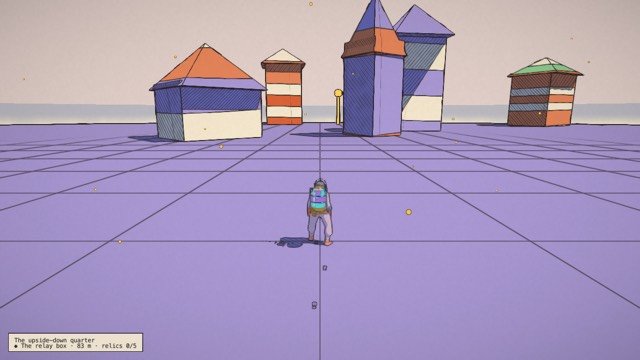
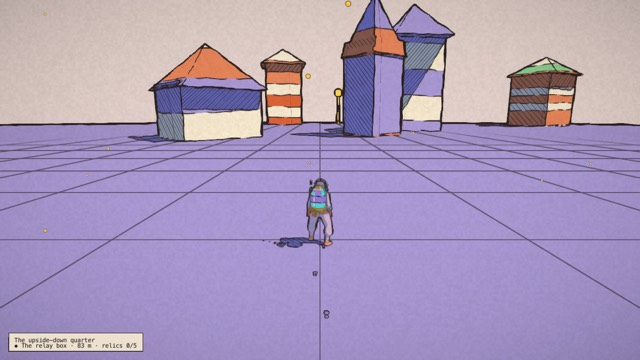
Unity port: each of the Hangar's quarters takes its own print (post.js presets: Animated ink upside down, Moebius in the ring)

diff --git a/unity/Memento/Assets/Memento/Runtime/MementoLook.cs b/unity/Memento/Assets/Memento/Runtime/MementoLook.cs
@@ -42,7 +42,7 @@ namespace Memento
         {
             look = lookData;
             hours.Clear();
-            atmoFog = -1; atmoTint = Color.white; lightAt = null;
+            atmoFog = -1; atmoTint = Color.white; lightAt = null; presetOver = null;
             foreach (var h in look.L("hours")) hours.Add(h as Dictionary<string, object>);
             hour = look.F("hour", 9.5f);
             localLights.Clear();
@@ -71,10 +71,25 @@ namespace Memento
             "uAlbedoEdges:_AlbedoEdges", "uShadowEdges:_ShadowEdges", "uWobble:_Wobble", "uBoil:_Boil", "uHighlight:_Highlight", "uGrain:_Grain", "uAO:_AO", "uSkyBands:_SkyBands",
             "uHazeBands:_HazeBands", "uAerial:_Aerial", "uLineVary:_LineVary", "uSkyFlat:_SkyFlat", "uSkyDots:_SkyDots", "uCumulus:_Cumulus", "uFogMul:_FogMul" };
 
+        /// <summary>Another of post.js's presets laid over the world's own (the Hangar's quarters: "Animated ink" upside
+        /// down, "Moebius" in the ring); null: the world's own again.</summary>
+        public void UsePreset(string name)
+        {
+            var all = look?.O("presets");
+            presetOver = name != null && all?.O(name) is { } pr && name != look.S("preset") ? pr : null;
+            Apply();
+        }
+        Dictionary<string, object> presetOver;
+
         public void Apply()
         {
             if (look == null || hours.Count == 0) return;
             var shared = look.O("shared"); var post = look.O("post");
+            if (presetOver != null)
+            {
+                post = new Dictionary<string, object>(post); shared = new Dictionary<string, object>(shared);
+                foreach (var (k, v) in presetOver) { post[k] = v; if (shared.ContainsKey(k)) shared[k] = v; }
+            }
             foreach (var kv in SharedKeys) { var p = kv.Split(':'); Shader.SetGlobalFloat(p[1], shared.F(p[0], post.F(p[0]))); }
             foreach (var kv in PostKeys) { var p = kv.Split(':'); Shader.SetGlobalFloat(p[1], post.F(p[0])); }
             if (fogOverride >= 0) Shader.SetGlobalFloat("_FogMul", fogOverride);

diff --git a/unity/Memento/Assets/Memento/Runtime/Mechanics.cs b/unity/Memento/Assets/Memento/Runtime/Mechanics.cs
@@ -114,7 +114,7 @@ namespace Memento
         Vector3 C; float ringR, ringL; Vector3 aSpawn, bSpawn, cSpawn;
         class Portal { public Vector3 pos, to, toUp, toFwd; public string label; }
         readonly List<Portal> portals = new();
-        float cool, fadeT = -1; Portal passing;
+        float cool, fadeT = -1; Portal passing; string zone;
 
         protected override void Begin()
         {
@@ -167,6 +167,8 @@ namespace Memento
                     }
             // falling out of a quarter: back to its entrance
             var z = Zone(p);
+            // each quarter its own print (garage.js ZONES: "Animated ink" upside down, "Moebius" in the ring)
+            if (z != zone) { zone = z; game.look.UsePreset(game.world.World.O("gravity")?.O("zones")?.O(z)?.S("preset")); }
             if (z == "A" && p.y < -260) pl.Teleport(aSpawn, 180);
             if (z == "B" && p.y > 900 + 400) pl.Teleport(bSpawn, 0);
             if (z == "C" && new Vector2(p.y - C.y, p.z - C.z).magnitude > ringR + 40) pl.Teleport(cSpawn, 90);

diff --git a/unity/README.md b/unity/README.md
@@ -516,7 +516,8 @@ is exported and can be flown to from the ship's galactic map, as on the web.
 - `WorldMechanics` (each world's own script, beyond the data): the City-Shaft's splinter and the
   Lodestar (its main quest to its end), the Garden's three spheres, the Hangar's turned gravity
   (`Player.UpdateFramed`: a capsule swept along the traveller's own frame, the camera's arm turned
-  with it) and its portals, Vael's bird (`BirdMount`, `bird.js`) and its first ride.
+  with it), its portals and each quarter's print (post.js presets), Vael's bird (`BirdMount`, `bird.js`)
+  and its first ride; Lorn's hover-skiff (`Bike` as a skiff, over the water).
 
 The flight (`Play`, desert → the City-Shaft → Vael) and the worlds in play:
 
@@ -550,12 +551,12 @@ Per world (what plays in the port; what of the web's own scripts is still missin
 - **The City-Shaft** (`incal`): its main quest "The Light Nobody Looks At" to its end: Nima, Ossa’s splinter at the bottom, Dov at the palace, looking up at the Lodestar (the splinter climbs home), Nima again; the keepsake. 1359 in the crowd (pooled), their conversations; 81 cabs on their lanes; the haze thickening down the shaft, the steeper sun inside it; the call-lamp lit by a shot. Missing: riding the cabs (hailing, Wren’s cab), the goods hoist’s swing, the Lodestar’s own glow and the city’s lamps coming on, the crowd looking up, the Warden’s Well.
 - **Vael** (`arzach`): Oïa (the opening), the bird to ride (take off, bank, dive, flap, land), the lone tower’s balcony; the feathers to pick up. Missing: the bird’s wing strokes, the rider’s whistle and her promise, the stone hand’s knuckles, the paper fronds.
 - **Vael II** (`arzach2`): Sister Aube (the opening), the bird to the monastery, the cairn’s stones as data. Missing: the bell and its rope, the lamp, the tiles, the cairn’s placing, the Founders’ Belfry.
-- **The Sealed Hangar** (`garage`): Ambroise (the opening), the turned gravity of the upside-down quarter and the ring, the portals between them, the signal posted in the relay box; the machines restarted by shots. Missing: each quarter’s own preset, the signal board’s glyph, the machines’ turning, the First Garage.
+- **The Sealed Hangar** (`garage`): Ambroise (the opening), the turned gravity of the upside-down quarter and the ring, the portals between them, the signal posted in the relay box; the machines restarted by shots. Each quarter takes its own print. Missing: the signal board’s glyph, the machines’ turning, the First Garage.
 - **The Buried Machine** (`buried`): Wen (the opening), the gauges cleared and the valve and jib by the fluid. Missing: the wheel turning, the crane, the key, the oculus, the canyon’s lifts.
 - **Viridel** (`edena`): Mira (the opening), grass blades, the new water with its bed, the seed and the sprout. Missing: the terraces’ flood, the water clock, the fallen ship’s log, the flowers answering.
 - **The Garden of Spheres** (`spheres`): Aube (the opening), the three spheres that remember (splashed), on to the plaza. Missing: the spheres’ sounds and the chord, the pebble and its glint, the mirror lake’s print.
-- **Lorn** (`perdide`): Wendel (the opening), the swamp’s water (its bed baked round you), wading and swimming. Missing: the hover-skiff, the crystals’ hum, the hush, the caves.
-- **Lorn II** (`perdide2`): Hollin (the opening), the three dark pools relit by shots, the moss and fen lamps. Missing: the skiff home, Pim’s door, the dome doors, the saucer.
+- **Lorn** (`perdide`): Wendel (the opening), the hover-skiff over the swamp, the swamp’s water (its bed baked round you), wading and swimming. Missing: the crystals’ hum, the hush, the caves, the fungi.
+- **Lorn II** (`perdide2`): Hollin (the opening), the skiff, the three dark pools relit by shots, the moss and fen lamps. Missing: the skiff’s cave home, Pim’s door, the dome doors, the saucer.
 - **The Signal Market** (`bazaar`): Sel (the opening), 574 in the crowd with their conversations, the cabs, the sign and the crates by the fluid, the overhead sun of the street. Missing: the reactive screens, riding the cabs, the broadcast, the lanterns.
 - **Home** (`home`): opens by the web’s rule (six worlds done and the last recording, or the ending played); the round house, Lou and Tove, the things in the yard. Missing: the homecoming (the cockpit’s choice, the landing, the door, the stone); the recordings (the reel’s calls) that open it.
 
@@ -609,13 +610,12 @@ writes the player's back buffer itself (`_TargetFlip`).
 
 - **The worlds' own scripts** beyond their main quests' data: see the list per world above. Most
   worlds' opening steps and the fluid's stages play; the City-Shaft's main quest plays to its end.
-  The mounts other than the bird (Lorn's hover-skiff), riding the cabs, the temples (the gadgets wait
+  Riding the cabs, the temples (the gadgets wait
   by the ship instead), the reel's recordings at the console (`calls.js`: they open home), the
   homecoming, the reactive scenery (`reactive-world.js`), the scout drone.
 - **The ship**: its door and ramp are drawn lowered through the flights (one rigid export); the
   interior reads brighter than the web's.
-- **The look**: the Hangar's quarters keep one preset (the web switches to "Animated ink" upside
-  down); the water's sparkle and its rings; the world's lamps and the Lodestar's glow driven by
+- **The look**: the water's sparkle and its rings; the world's lamps and the Lodestar's glow driven by
   their scripts; shadows are URP's, with a filter close to the web's hand-rolled cascades.
 - **The traveller**: thrusting on the jets keeps the jump's pose; swimming keeps the walk (no
   strokes, no diving or breath).
